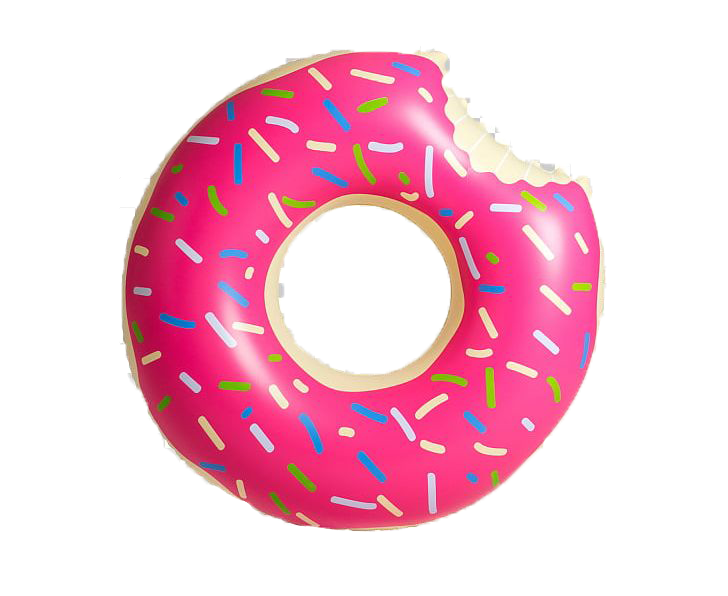
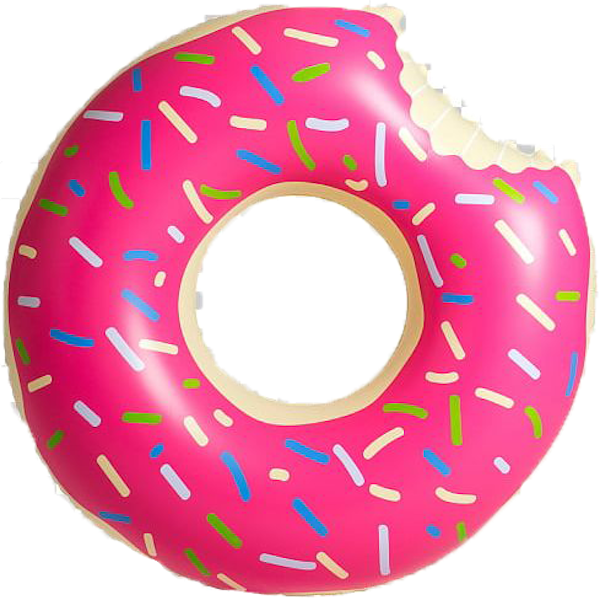
random swim rings

diff --git a/index.html b/index.html
@@ -64,7 +64,7 @@
 
 	<body>
 		<div class="center">
-			<img src="2019/img/ring.png" alt="Schwimmring" style="width:50%;">
+			<img id="ring" src="2019/img/ring.png" alt="Schwimmring" style="width:50%;">
 			<p>Filling the pool with water ...<br>Heating up the jacuzzy ...<br>Making you wait for no reason ...</p>
 		<!-- </div>
 		<div class="center">
@@ -73,6 +73,8 @@
 		<!-- Scripts-->
 
 		<script>
+			var images = ['2019/img/ring.png', '2019/img/barbie.png', '2019/img/disney.png', '2019/img/donut.png', '2019/img/kitty.png'];
+			document.getElementById("ring").src = images[Math.floor(Math.random() * images.length)];
 			var redirect = function() { window.location.href = "http://www.wohnzimmeradventures.xyz/2019/landing.html"; }
 			setTimeout(redirect, 10000)
 		</script>
